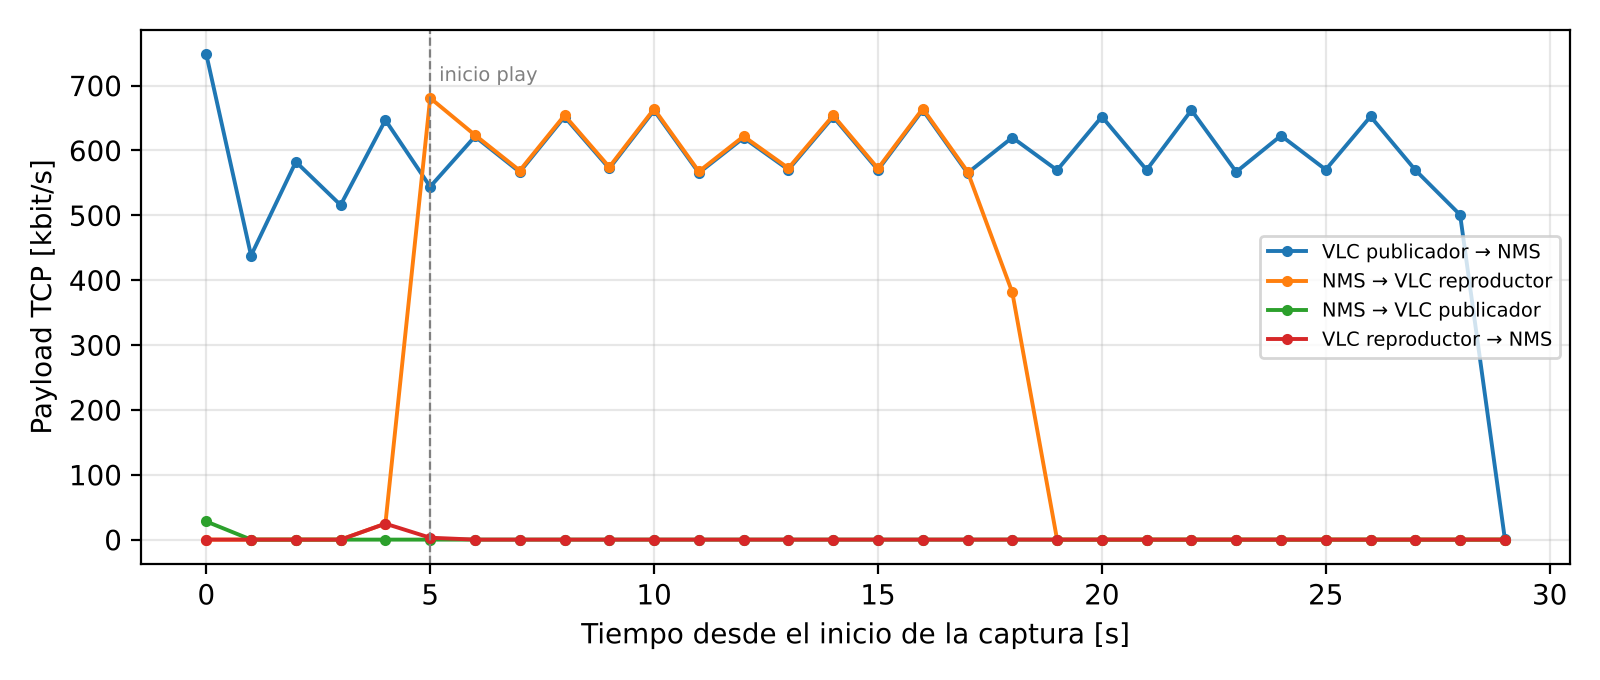
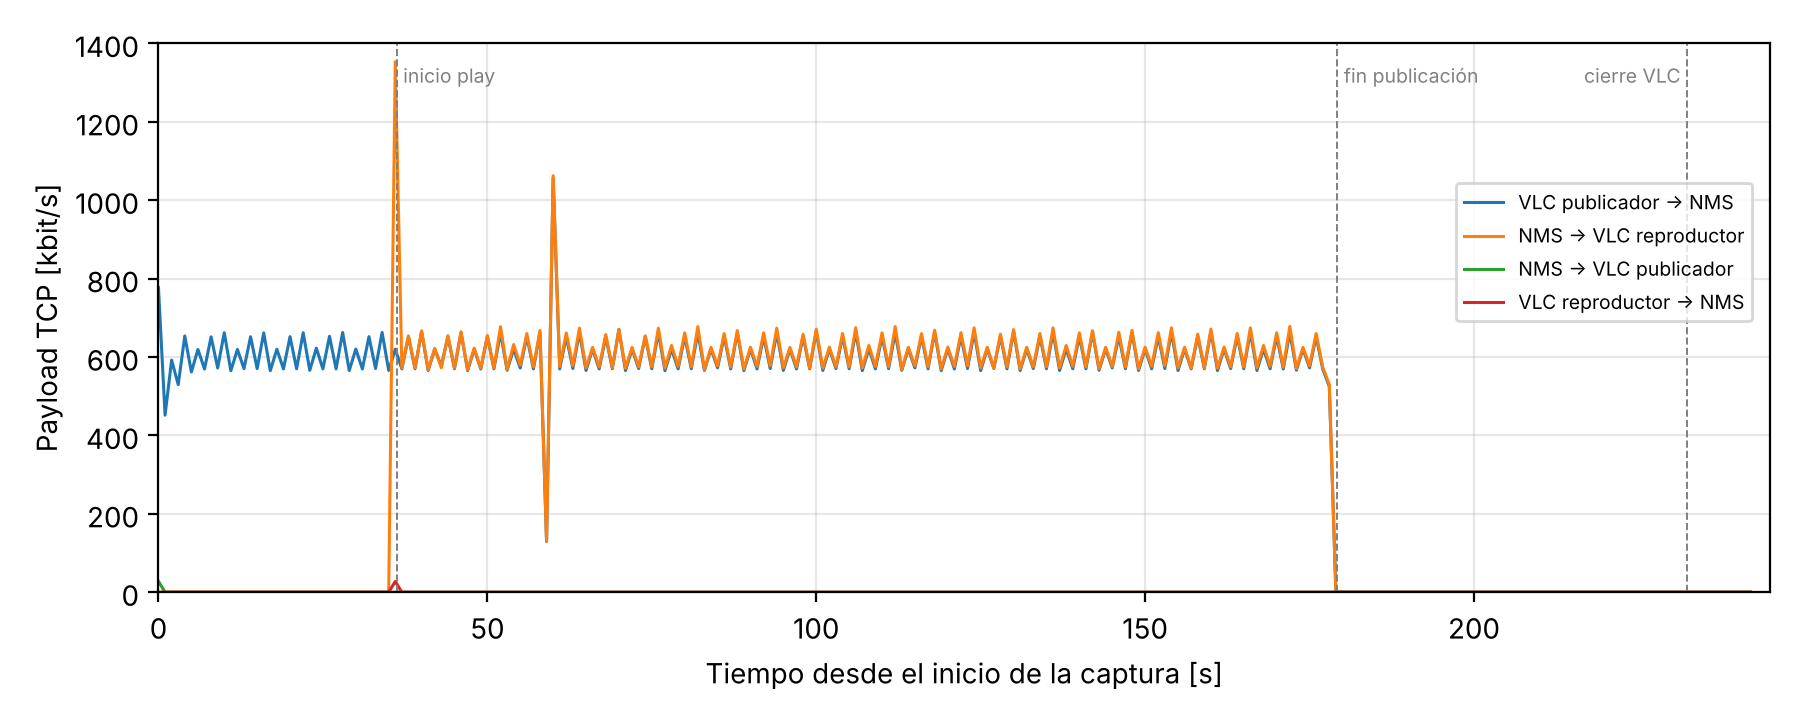
Informe: capítulo 2 con la captura en Docker, capturas de pantalla y gráfico
Claude-Session: https://claude.ai/code/session_01WvVpSL79VvrLE4jHVL918S

diff --git a/README.md b/README.md
@@ -57,11 +57,19 @@ Arquitectura (red bridge `rtmpnet`, 172.28.0.0/24):
 
 
 ## Capturas de pantalla
-_(agregar las imágenes en `informe/` y enlazarlas aquí)_
+Arranque de los contenedores y log del servidor:
+![docker compose ps y logs de NMS](./informe/captura_compose.png)
 
-<!-- Ejemplo:
-![VLC reproduciendo el flujo](./informe/captura_vlc.png)
--->
+Inicio de la sesión de publicación en Wireshark (filtro `rtmpt`):
+![Wireshark: handshake y comandos](./informe/captura_wireshark_lista.png)
+
+Comando `connect('live')` desplegado:
+![Wireshark: connect](./informe/captura_connect.png)
+
+Carga útil TCP por segundo en cada sentido:
+![Throughput](./informe/throughput.png)
+
+<!-- Pendiente: agregar captura de VLC (informe/captura_vlc.png) y del panel /admin (informe/captura_admin.png) -->
 
 
 ## Instalación
@@ -127,7 +135,7 @@ sudo chown -R $USER:$USER captures
 wireshark captures/rtmp_docker.pcap
 ```
 
-> **Importante para Wireshark:** Node-Media-Server usa un _chunk size_ de 65535 bytes y el disector RTMP trae `max_packet_size = 32768`, por lo que la mayoría de los paquetes aparece como *Malformed*. Para corregirlo: *Edit → Preferences → Protocols → RTMPT → Maximum packet size* = `2000000` (en tshark: `-o rtmpt.max_packet_size:2000000`). Filtro de visualización: `rtmpt`.
+> **Importante para Wireshark:** el filtro de visualización es `rtmpt` (con t); `rtmp` es otro protocolo (AppleTalk) y no muestra nada. En Wireshark 4.2 o anterior, además, hay que subir *Edit → Preferences → Protocols → RTMPT → Maximum packet size* a `2000000`, porque Node-Media-Server usa un _chunk size_ de 65535 bytes y el disector descarta mensajes mayores a 32768 (aparecen como *Malformed*). En la versión 4.6 esa opción ya no existe ni hace falta.
 
 Estructura del repositorio:
 ```
